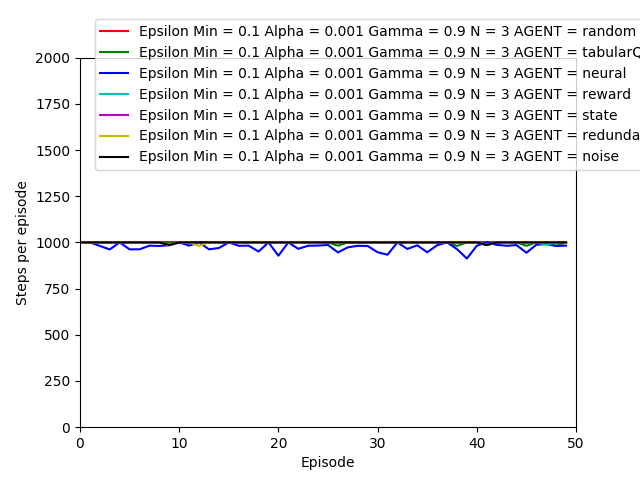
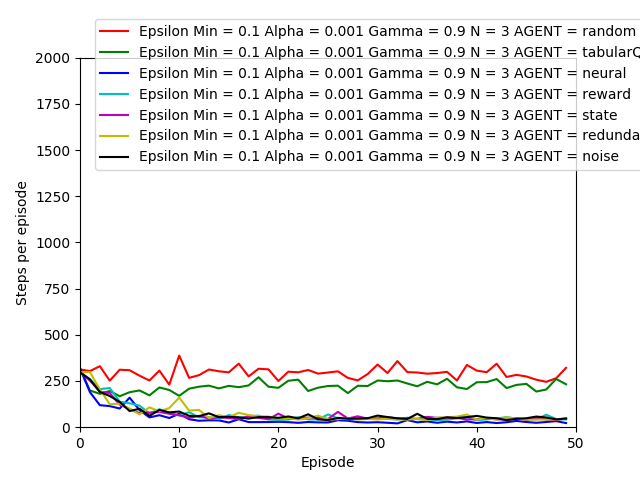
Add an additional 1 ot encoding function that includes actions rather than just states. Replace the feature vector with instances of the auxiliary feature vector where: need to do this because some of the auxiliary vectors are not simply multiples of the 1 hot encoded state: taking into account acti

Changed region(s): [[0.125, 0.75, 0.875, 0.9062], [0.125, 0.5, 0.9062, 0.5312], [0.875, 0.75, 0.9062, 0.7812]]

diff --git a/Gridworld/grid_agent.py b/Gridworld/grid_agent.py
@@ -32,8 +32,8 @@ EPSILON_MIN = None
 N = None
 NUM_ACTIONS = 4
 
-#6 rows by 9 columns = 54 when unrolled
 FEATURE_VECTOR_SIZE = NUM_ROWS * NUM_COLUMNS
+AUX_FEATURE_VECTOR_SIZE = NUM_ROWS * NUM_COLUMNS * NUM_ACTIONS
 
 #Used for sampling in the auxiliary tasks
 BUFFER_SIZE = 10
@@ -105,7 +105,7 @@ def agent_init():
 
         main_output = Dense(NUM_ACTIONS, activation='linear', kernel_initializer=init_weights, name='main_output')(shared_2)
 
-        aux_input = Input(shape=(FEATURE_VECTOR_SIZE * N,))
+        aux_input = Input(shape=(AUX_FEATURE_VECTOR_SIZE * N,))
         merged = concatenate([aux_input, shared_2])
 
         aux_1 = Dense(128, activation='relu', kernel_initializer=init_weights)(merged)
@@ -129,10 +129,11 @@ def agent_init():
 
 
 def agent_start(state):
-    global state_action_values, cur_state, cur_action, cur_context
+    global state_action_values, cur_state, cur_action, cur_context, cur_context_actions
 
     #Context is a sliding window of the previous n states that gets added to the replay buffer used by auxiliary tasks
     cur_context = []
+    cur_context_actions = []
     cur_state = state
     if rand_un() < 1 - cur_epsilon:
         if AGENT == TABULAR:
@@ -151,7 +152,7 @@ def agent_start(state):
 def agent_step(reward, state):
     global state_action_values, cur_state, cur_action, cur_epsilon, zero_reward_buffer, zero_buffer_count, non_zero_reward_buffer, non_zero_buffer_count
 
-    
+
     next_state = state
 
     if AGENT == TABULAR:
@@ -191,10 +192,10 @@ def agent_step(reward, state):
     #All auxiliary tasks
     else:
 
-        update_replay_buffer(cur_state, reward, next_state)
+        update_replay_buffer(cur_state, cur_action, reward, next_state)
 
         #Get the best action over all actions possible in the next state, ie max_a(Q, a)
-        aux_dummy = np.zeros(shape=(1, FEATURE_VECTOR_SIZE * N,))
+        aux_dummy = np.zeros(shape=(1, AUX_FEATURE_VECTOR_SIZE * N,))
         q_vals, _ = model.predict([encode_1_hot([next_state]), aux_dummy], batch_size=1)
         q_max = np.max(q_vals)
         cur_action_target = reward + GAMMA * q_max
@@ -226,7 +227,7 @@ def agent_step(reward, state):
                 # print(cur_transition.states)
                 # print(cur_transition.next_state)
                 # print(cur_transition.reward)
-            cur_context_1_hot = encode_1_hot(cur_transition.states)
+            cur_context_1_hot = encode_1_hot(cur_transition.states, cur_transition.actions)
 
             #Update the current q-value and auxiliary task output towards their respective targets
             if AGENT == REWARD:
@@ -264,11 +265,11 @@ def agent_end(reward):
 
     #All auxiliary tasks
     else:
-        update_replay_buffer(cur_state, reward, GOAL_STATE)
+        update_replay_buffer(cur_state, cur_action, reward, GOAL_STATE)
 
         #Get the best action over all actions possible in the next state, ie max_a(Q, a)
         cur_state_1_hot = encode_1_hot([cur_state])
-        aux_dummy = np.zeros(shape=(1, FEATURE_VECTOR_SIZE * N,))
+        aux_dummy = np.zeros(shape=(1, AUX_FEATURE_VECTOR_SIZE * N,))
         q_vals, _ = model.predict([cur_state_1_hot, aux_dummy], batch_size=1)
         q_vals[0][cur_action] = reward = reward
 
@@ -278,7 +279,7 @@ def agent_end(reward):
                 cur_transition = zero_reward_buffer[rand_in_range(len(zero_reward_buffer))]
             else:
                 cur_transition = non_zero_reward_buffer[rand_in_range(len(non_zero_reward_buffer))]
-            cur_context_1_hot = encode_1_hot(cur_transition.states)
+            cur_context_1_hot = encode_1_hot(cur_transition.states, cur_transition.actions)
 
             #Update the current q-value and auxiliary task output towards their respective targets
             if AGENT == REWARD:
@@ -339,7 +340,7 @@ def get_max_action_tabular(state):
 def get_max_action_aux(state):
     "Return the maximum acton to take given the current state"
 
-    dummy_aux = np.zeros(shape=(1, FEATURE_VECTOR_SIZE * N))
+    dummy_aux = np.zeros(shape=(1, AUX_FEATURE_VECTOR_SIZE * N))
     q_vals, _ = model.predict([encode_1_hot([state]), dummy_aux], batch_size=1)
 
     return np.argmax(q_vals[0])
@@ -356,8 +357,20 @@ def encode_1_hot(states):
 
     return np.concatenate(all_states_1_hot, 1)
 
-def update_replay_buffer(cur_state, reward, next_state):
-    global cur_context, zero_reward_buffer, non_zero_reward_buffer, zero_buffer_count, non_zero_buffer_count
+def encode_1_hot(states, actions):
+    "Return a 1 hot encoding of the current list of states and the accompanying actions"
+
+    all_states_1_hot = []
+    for i in range(len(states)):
+        state = states[i]
+        action = actions[i]
+        state_1_hot = np.zeros((NUM_ROWS, NUM_COLUMNS, NUM_ACTIONS))
+        state_1_hot[state[0]][state[1]][action] = 1
+        state_1_hot = state_1_hot.reshape(1, AUX_FEATURE_VECTOR_SIZE)
+        all_states_1_hot.append(state_1_hot)
+
+def update_replay_buffer(cur_state, cur_action, reward, next_state):
+    global cur_context, cur_context_actions, zero_reward_buffer, non_zero_reward_buffer, zero_buffer_count, non_zero_buffer_count
     """
     Update the replay buffer with the most recent transition, adding cur_state to the current global historical context,
     and mapping that to reward and next_state if the current context == N, the user set parameter for the context size
@@ -365,12 +378,14 @@ def update_replay_buffer(cur_state, reward, next_state):
 
     #Construct the historical context used in the prediciton tasks, and store them in the replay buffer according to their reward valence
     cur_context.append(cur_state)
+    cur_context_actions.append(cur_action)
     cur_transition = None
     if len(cur_context) == N:
-        cur_transition = namedtuple("Transition", ["states", "reward", "next_state"])
+        cur_transition = namedtuple("Transition", ["states", "actions", "reward", "next_state"])
         cur_transition.states = list(cur_context)
         cur_transition.reward = reward
         cur_transition.next_state = next_state
+        cur_transition.actions = list(cur_context_actions)
         cur_context.pop(0)
 
     if cur_transition is not None:

diff --git a/Gridworld/grid_exp.py b/Gridworld/grid_exp.py
@@ -24,8 +24,8 @@ mpl.use('TkAgg')
 import matplotlib.pyplot as plt
 
 GRAPH_COLOURS = ('r', 'g', 'b', 'c', 'm', 'y', 'k')
-#AGENTS = ['random', 'tabularQ', 'neural', 'reward', 'state', 'redundant', 'noise']
-AGENTS = ['tabularQ']
+AGENTS = ['random', 'tabularQ', 'neural', 'reward', 'state', 'redundant', 'noise']
+#AGENTS = ['tabularQ']
 VALID_MOVE_SETS = [4, 8, 9]
 
 if __name__ == "__main__":
@@ -69,7 +69,7 @@ if __name__ == "__main__":
 
     num_episodes = 50
     max_steps = 1000
-    num_runs = 1
+    num_runs = 50
 
     #The main experiment loop
     print("Training the agents...")
